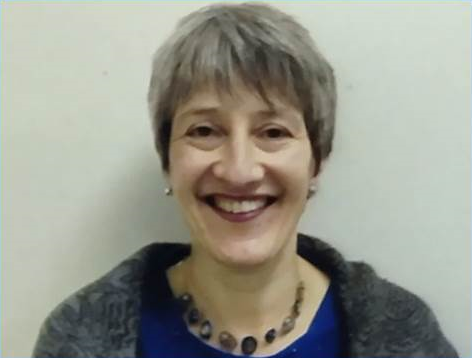
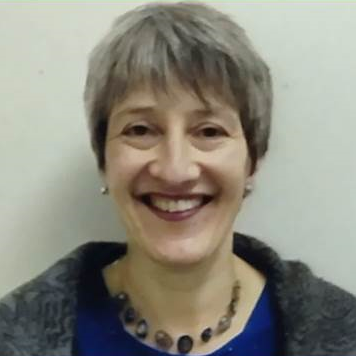
Fix teams, reflect changes in master

diff --git a/src/pages/team.js b/src/pages/team.js
@@ -8,41 +8,37 @@ import Head from '../components/head'
 //data and assets
 import teamData from '../../data/team.json'
 import siteData from '../../data/manifest.json'
-import xinjie from '../assets/images/team/cropped/xinjie.jpg'
-import george from '../assets/images/team/cropped/george.jpeg'
-import tara from '../assets/images/team/cropped/tara.png'
+import xinjie from '../assets/images/team/xinjie.jpg'
+import george from '../assets/images/team/george.png'
+import tara from '../assets/images/team/tara.png'
 
 export default function Team() {
     return (
         <Layout>
             <Head title='Team' />
-            <section className="o-section c-masthead c-masthead--centered">
+            <section className="o-section c-masthead c-masthead--">
                 <div className="c-masthead__overlay">
 
                     <div className="o-block o-block--centered">
-                        <div className="o-block__container">
-                            <div className="o-title o-title--large c-masthead__title">
-                                <div className="o-inner">
-                                    <h2 className="o-title__headline c-masthead__headline">Meet the team</h2>
-                                    <p className="o-title__byline c-masthead__byline">
-                                        We're a diverse group with an eclectic set of skills, currently sprinkled across 4 different timezones and counting. We are particularly proud of our student volunteers.
-                                    </p>
+                        <div className="o-block__inner">
+                            <div className="o-block__container">
+                                <div className="o-title o-title--large o-title--centered c-masthead__title">
+                                    <div className="o-inner">
+                                        <h2 className="o-title__headline c-masthead__headline">Meet the team</h2>
 
-                                    {teamData.members.map(member => {
-                                        const divStyle = {
-                                            display: 'block',
-                                            height: '100%',
-                                            backgroundPosition: 'center',
-                                            backgroundSize: 'cover',
-                                            backgroundRepeat: 'no-repeat',
-                                            backgroundImage: 'url(' + member.photo + ')'
-                                        }
-                                        return (
-                                            <a key={member.name} href={member.link ? member.link : '#'} target="_blank" className="o-asset o-asset--circle">
-                                                <div alt={member.name} style={divStyle} className="o-asset__source" />
-                                            </a>
-                                        )
-                                    })}
+                                        <div className="c-avatars">
+                                            {teamData.members.map(member => {
+                                                return (
+                                                    <a key={member.name} href={member.link ? member.link : '#'} target="_blank" className="c-avatars__item u-centered" style={{display: 'inline-block'}}>
+                                                        <figure className="o-asset o-asset--circle">
+                                                            <div id={member.photo} alt={member.name} className="o-asset__source team-member" />
+                                                        </figure>
+                                                        <span style={{display: 'block'}}>{member.name}</span>
+                                                    </a>
+                                                )
+                                            })}
+                                        </div>
+                                    </div>
                                 </div>
                             </div>
                         </div>
@@ -95,14 +91,6 @@ export default function Team() {
                                                     <li className="o-title o-title--small c-list__item">
                                                         <h5 className="o-title__headline c-list__itemTitle">Marketing: Content Writers 👩💻</h5>
                                                         <p>Our marketing team is looking for experienced copywriters to help us create blog content and hone our messaging.</p>
-                                                    </li>
-                                                    <li className="o-title o-title--small c-list__item">
-                                                        <h5 className="o-title__headline c-list__itemTitle">Marketing: Motion Graphics 🚀</h5>
-                                                        <p>Our marketing team is looking for a motion graphics designer to help take our communications to the next level.</p>
-                                                    </li>
-                                                    <li className="o-title o-title--small c-list__item">
-                                                        <h5 className="o-title__headline c-list__itemTitle">Product: Frontend Engineer 🏎</h5>
-                                                        <p>We are looking for a frontend engineer familiar with Webpack, Gatsby, React & SCSS. Experience with AWS is also beneficial. The ideal candidate will be comfortable working with both technical and non-technical team members, and be able to build fast with little management or design support.</p>
                                                     </li>
                                                 </ul>
                                             </div>

diff --git a/src/pages/index.js b/src/pages/index.js
@@ -7,8 +7,8 @@ import siteData from '../../data/manifest.json'
 import arshib0ld from '../assets/images/challenge/arshib0ld.jpg'
 import mannyprime from '../assets/images/challenge/mannyprime.jpg'
 import friends from '../assets/images/k.jpg'
-import xinjie from '../assets/images/team/cropped/xinjie.jpg'
-import george from '../assets/images/team/cropped/george.jpeg'
+import xinjie from '../assets/images/team/xinjie.jpg'
+import george from '../assets/images/team/george.png'
 import esmeVideo from '../assets/video/esme.mp4'
 import esmePoster from '../assets/video/esme-poster.png'
 import introVideo from '../assets/video/introduction/version-1.mp4'
@@ -341,7 +341,7 @@ class Home extends Component {
                     <header className="o-title o-title--centered c-tourItem__title">
                       <div className="o-inner">
                         <h3 className="o-title__headline">A growing team of volunteers</h3>
-                        <p className="o-title__byline">What started out as a small group of concerned citizens helping healthcare workers find protective equipment has quickly grown into a team on a mission to get every frontline NHS worker the protective equipment they need to fight COVID-19.</p>
+                        <p className="o-title__byline">What started out as a small group helping health & social care workers find protective equipment has quickly grown into a team on a mission to end the protective equipment crisis.</p>
                       </div>
                     </header>
                   </div>

diff --git a/src/assets/styles/main.scss b/src/assets/styles/main.scss
@@ -1,7 +1,7 @@
 @import "_base";
 
 @media all {
- 
+
   .o-site {
     $o: &;
 
@@ -23,12 +23,14 @@
       color: inherit;
       text-decoration: none;
     }
+
     img {
       max-width: 100%;
       height: auto;
     }
 
-    ul, li {
+    ul,
+    li {
       list-style: none;
     }
 
@@ -36,8 +38,47 @@
       margin: 0;
     }
 
-    .c-masthead__buttons > a.o-button {
+    .c-masthead__buttons>a.o-button {
       margin: 0 2px;
     }
+  }
+
+  // team images. Temporary workaround, to be changed later
+  .team-member {
+    display: block;
+    height: 100%;
+    background-position: center;
+    background-size: cover;
+    background-repeat: no-repeat;
+  }
+  #amy {
+    background-image: url(../images/team/amy.jpeg)
+  }
+  #xinjie {
+    background-image: url(../images/team/xinjie.jpg)
+  }
+  #george {
+    background-image: url(../images/team/george.png)
+  }
+  #carol {
+    background-image: url(../images/team/carol.jpg)
+  }
+  #lea {
+    background-image: url(../images/team/lea.jpg)
+  }
+  #nkhanise {
+    background-image: url(../images/team/nkhanise.jpg)
+  }
+  #sunnii {
+    background-image: url(../images/team/sunnii.jpg)
+  }
+  #dale {
+    background-image: url(../images/team/dale.jpg)
+  }
+  #charlotte {
+    background-image: url(../images/team/charlotte.jpg)
+  }
+  #imran {
+    background-image: url(../images/team/imran.jpeg)
   }
 }

diff --git a/src/assets/styles/components/_avatars.scss b/src/assets/styles/components/_avatars.scss
@@ -1,0 +1,38 @@
+.c-avatars {
+    $c: &;
+
+    width: 100%;
+    display: flex;
+    flex-direction: row;
+    flex-wrap: wrap;
+    justify-content: center;
+
+    #{$c}__item {
+        width: 50%;
+        flex-direction: column;
+        flex-basis: 100%;
+        flex: 1;
+        margin-bottom: $base-em * 2;
+    }
+
+    @media all {}
+
+    @media (min-width: $viewport-mobile) {}
+
+    @media (max-width: $viewport-tablet - 1) {
+
+        #{$c}__item {
+            width: 50%;
+            flex-direction: column;
+            flex-basis: 100%;
+            flex: 0 0 50%;
+            margin-bottom: $base-em * 2;
+        }
+    }
+
+    @media (min-width: $viewport-tablet) {}
+
+    @media (min-width: $viewport-desktop) {}
+
+    @media (min-width: $viewport-desktop-lg) {}
+}

diff --git a/src/assets/styles/objects/_asset.scss b/src/assets/styles/objects/_asset.scss
@@ -24,6 +24,9 @@
       text-indent: -9999px;
       @include zIndex(8);
     }
+    #{$o}__caption {
+      display: block;
+    }
 
     &--circle {
       width: ($base-em * 4);

diff --git a/src/assets/styles/components/_components.scss b/src/assets/styles/components/_components.scss
@@ -12,3 +12,4 @@
 @import "_blockQuote";
 @import "_share";
 @import "_imageBanner";
+@import "_avatars";
